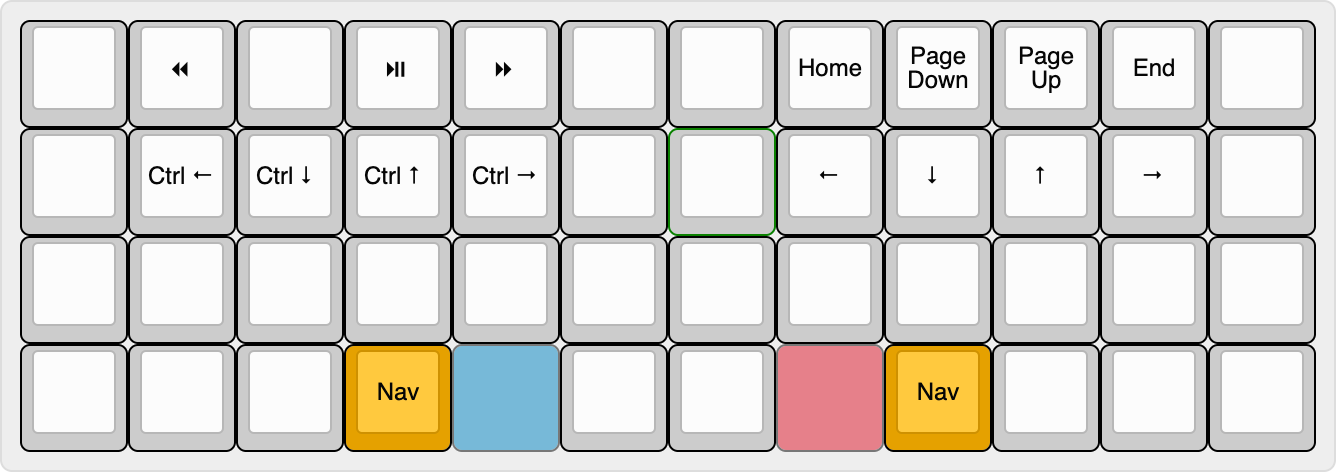
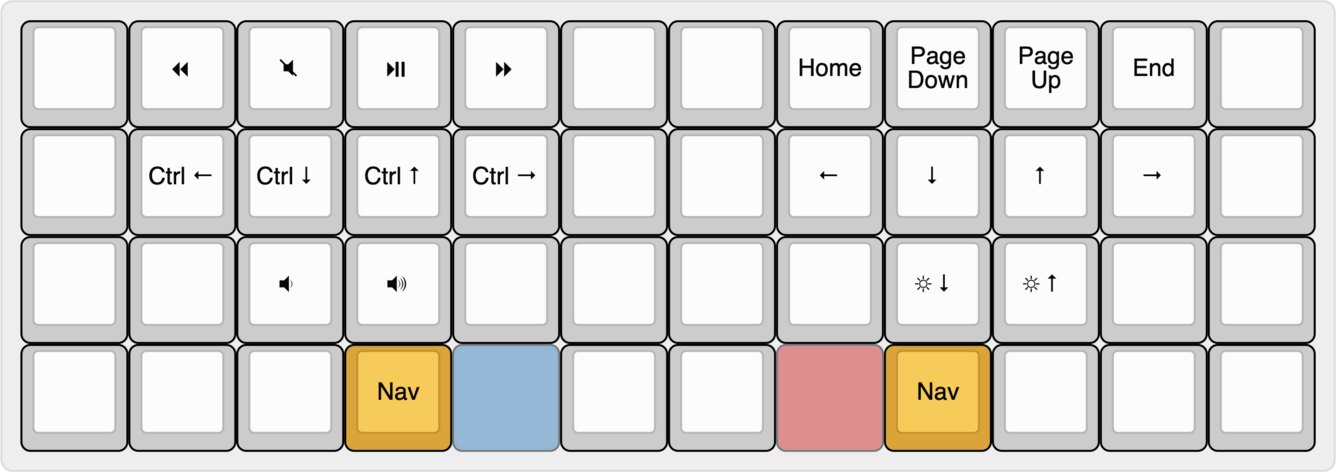
Add volume & brightness controls

diff --git a/keymap/keymap.c b/keymap/keymap.c
@@ -120,19 +120,19 @@ const uint16_t PROGMEM keymaps[][MATRIX_ROWS][MATRIX_COLS] = {
 
 /* Navigate: arrow keys and other navigation, including media controls
  * ,-----------------------------------------------------------------------------------------------------------------------.
- * |         |   <<    |         |   >|    |   >>    |         |         |  Home   | PgDown  |  PgUp   |   End   |         |
+ * |         |   <<    |  Mute   |   >|    |   >>    |         |         |  Home   | PgDown  |  PgUp   |   End   |         |
  * |---------+---------+---------+---------+---------+---------+---------+---------+---------+---------+---------+---------|
  * |         | Ctrl ←  | Ctrl ↓  | Ctrl ↑  | Ctrl →  |         |         |    ←    |    ↓    |    ↑    |    →    |         |
  * |---------+---------+---------+---------+---------+---------+---------+---------+---------+---------+---------+---------|
- * |         |         |         |         |         |         |         |         |         |         |         |         |
+ * |         |         |  Vol ↓  |  Vol ↑  |         |         |         |         |   ☼ -   |   ☼ +   |         |         |
  * |---------+---------+---------+---------+---------+---------+---------+---------+---------+---------+---------+---------|
  * |         |         |         |         |         |         |         |         |         |         |         |         |
  * `-----------------------------------------------------------------------------------------------------------------------'
  */
 [_NAVIGATE] = LAYOUT_planck_grid(
-    _______,  KC_MPRV,   _______,  KC_MPLY,  KC_MNXT,  _______,  _______,  KC_HOME,  KC_PGDN,  KC_PGUP,  KC_END,   _______,
+    _______,  KC_MPRV,   KC_MUTE,  KC_MPLY,  KC_MNXT,  _______,  _______,  KC_HOME,  KC_PGDN,  KC_PGUP,  KC_END,   _______,
     _______,  CTRL_LEFT, CTRL_DOWN,CTRL_UP,  CTRL_RGHT,_______,  _______,  KC_LEFT,  KC_DOWN,  KC_UP,    KC_RIGHT, _______,
-    _______,  _______,   _______,  _______,  _______,  _______,  _______,  _______,  _______,  _______,  _______,  _______,
+    _______,  _______,   KC_VOLD,  KC_VOLU,  _______,  _______,  _______,  _______,  KC_BRMD,  KC_BRMU,  _______,  _______,
     _______,  _______,   _______,  _______,  _______,  _______,  _______,  _______,  _______,  _______,  _______,  _______
 ),
 

diff --git a/Readme.md b/Readme.md
@@ -105,7 +105,7 @@ reset mode.
 * [Number layer](http://www.keyboard-layout-editor.com/##@@_a:7%3B&=&=F1&=F2&=F3&=F4&=F5&=F6&=F7&=F8&=F9&=F10&=%3Ci%20class%2F='mss%20mss-Unicode-DeleteRight-Big-2'%3E%3C%2F%2Fi%3E%3B&@_f:2%3B&=&_f:3%3B&=1&=2&=3&=4&=5&=6&=7&=8&=9&=0&=%3B&@=&=-&=%2F=&=%60&=%5C&=&=&=&=&=&=&=%3B&@=&=&=&_c=%23e5a100&g:true%3B&=Nav&_c=%230084c2&g:false%3B&=Num&_c=%23cccccc&sm=cherry%3B&=&=&_c=%23dd1126&g:true%3B&=Sym&_c=%23e5a100%3B&=Nav&_c=%23cccccc&g:false%3B&=&=&=)
 * [Symbol layer](http://www.keyboard-layout-editor.com/##@@_a:7%3B&=&=F11&=F12&=F13&=F14&=F15&=F16&=F17&=F18&=F19&=F20&=%3B&@_f:2%3B&=&_f:3%3B&=!&=%2F@&=%23&=$&=%25&=%5E&=%2F&&=*&=(&=)&=%3B&@=&=%2F_&=+&=~&=%7C&=&=&=&=&=&=&=%3B&@=&=&=&_c=%23e5a100&g:true%3B&=Nav&_c=%230084c2%3B&=Num&_c=%23cccccc&g:false&sm=cherry%3B&=&=&_c=%23dd1126%3B&=Sym&_c=%23e5a100&g:true%3B&=Nav&_c=%23cccccc&g:false%3B&=&=&=)
 * [Adjust layer](http://www.keyboard-layout-editor.com/##@@_a:7%3B&=&=Reset&=&=&=&=&=&_f:2%3B&=%3Ci%20class%2F='kb%20kb-logo-apple'%3E%3C%2F%2Fi%3E%20lock&_f:3%3B&=&=&=&=%3B&@_f:2%3B&=&_f:3%3B&=&=&=&=&=&=&=%3Ci%20class%2F='kb%20kb-Unicode-Screen-Bright'%3E%3C%2F%2Fi%3E-&=%3Ci%20class%2F='kb%20kb-Unicode-Screen-Bright'%3E%3C%2F%2Fi%3E+&_f:2%3B&=colemak&=qwerty&_f:3%3B&=%3B&@=&=&=&=&=&=&=&=&=&=&=&=%3B&@=&=&=&_c=%23e5a100&g:true%3B&=Nav&_c=%230084c2&g:false%3B&=Num&_c=%23cccccc&sm=cherry%3B&=&=&_c=%23dd1126%3B&=Sym&_c=%23e5a100&g:true%3B&=Nav&_c=%23cccccc&g:false%3B&=&=&=)
-* [Navigation layer](http://www.keyboard-layout-editor.com/##@@_a:7%3B&=&=%3Ci%20class%2F='kb%20kb-Multimedia-Rewind'%3E%3C%2F%2Fi%3E&=&=%3Ci%20class%2F='kb%20kb-Multimedia-Play-Pause'%3E%3C%2F%2Fi%3E&=%3Ci%20class%2F='kb%20kb-Multimedia-FastForwar'%3E%3C%2F%2Fi%3E&=&=&=Home&=Page%20Down&=Page%20Up&=End&=%3B&@_f:2%3B&=&_f:3%3B&=Ctrl%20%3Ci%20class%2F='kb%20kb-Arrows-Left'%3E%3C%2F%2Fi%3E&=Ctrl%20%3Ci%20class%2F='kb%20kb-Arrows-Down'%3E%3C%2F%2Fi%3E&=Ctrl%20%3Ci%20class%2F='kb%20kb-Arrows-Up'%3E%3C%2F%2Fi%3E&=Ctrl%20%3Ci%20class%2F='kb%20kb-Arrows-Right'%3E%3C%2F%2Fi%3E&=&=&=%3Ci%20class%2F='kb%20kb-Arrows-Left'%3E%3C%2F%2Fi%3E&=%3Ci%20class%2F='kb%20kb-Arrows-Down'%3E%3C%2F%2Fi%3E&=%3Ci%20class%2F='kb%20kb-Arrows-Up'%3E%3C%2F%2Fi%3E&=%3Ci%20class%2F='kb%20kb-Arrows-Right'%3E%3C%2F%2Fi%3E&=%3B&@=&=&=&=&=&=&=&=&=&=&=&=%3B&@=&=&=&_c=%23e5a100%3B&=Nav&_c=%230084c2&g:true%3B&=Num&_c=%23cccccc&g:false&sm=cherry%3B&=&=&_c=%23dd1126&g:true%3B&=Sym&_c=%23e5a100&g:false%3B&=Nav&_c=%23cccccc%3B&=&=&=)
+* [Navigation layer](http://www.keyboard-layout-editor.com/##@@_a:7%3B&=&=%3Ci%20class%2F='kb%20kb-Multimedia-Rewind'%3E%3C%2F%2Fi%3E&=%3Ci%20class%2F='kb%20kb-Multimedia-Mute-1'%3E%3C%2F%2Fi%3E&=%3Ci%20class%2F='kb%20kb-Multimedia-Play-Pause'%3E%3C%2F%2Fi%3E&=%3Ci%20class%2F='kb%20kb-Multimedia-FastForwar'%3E%3C%2F%2Fi%3E&=&=&=Home&=Page%20Down&=Page%20Up&=End&=%3B&@_f:2%3B&=&_f:3%3B&=Ctrl%20%3Ci%20class%2F='kb%20kb-Arrows-Left'%3E%3C%2F%2Fi%3E&=Ctrl%20%3Ci%20class%2F='kb%20kb-Arrows-Down'%3E%3C%2F%2Fi%3E&=Ctrl%20%3Ci%20class%2F='kb%20kb-Arrows-Up'%3E%3C%2F%2Fi%3E&=Ctrl%20%3Ci%20class%2F='kb%20kb-Arrows-Right'%3E%3C%2F%2Fi%3E&=&=&=%3Ci%20class%2F='kb%20kb-Arrows-Left'%3E%3C%2F%2Fi%3E&=%3Ci%20class%2F='kb%20kb-Arrows-Down'%3E%3C%2F%2Fi%3E&=%3Ci%20class%2F='kb%20kb-Arrows-Up'%3E%3C%2F%2Fi%3E&=%3Ci%20class%2F='kb%20kb-Arrows-Right'%3E%3C%2F%2Fi%3E&=%3B&@=&=&=%3Ci%20class%2F='kb%20kb-Multimedia-Volume-Down-1'%3E%3C%2F%2Fi%3E&=%3Ci%20class%2F='kb%20kb-Multimedia-Volume-Up-1'%3E%3C%2F%2Fi%3E&=&=&=&=&=%3Ci%20class%2F='kb%20kb-Unicode-Screen-Bright'%3E%3C%2F%2Fi%3E%3Ci%20class%2F='kb%20kb-Arrows-Down'%3E%3C%2F%2Fi%3E&=%3Ci%20class%2F='kb%20kb-Unicode-Screen-Bright'%3E%3C%2F%2Fi%3E%3Ci%20class%2F='kb%20kb-Arrows-Up'%3E%3C%2F%2Fi%3E&=&=%3B&@=&=&=&_c=%23e5a100%3B&=Nav&_c=%230084c2&g:true%3B&=Num&_c=%23cccccc&g:false&sm=cherry%3B&=&=&_c=%23dd1126&g:true%3B&=Sym&_c=%23e5a100&g:false%3B&=Nav&_c=%23cccccc%3B&=&=&=)
 
 [kle]: http://www.keyboard-layout-editor.com/
 [qmk]: https://github.com/qmk/qmk_firmware
